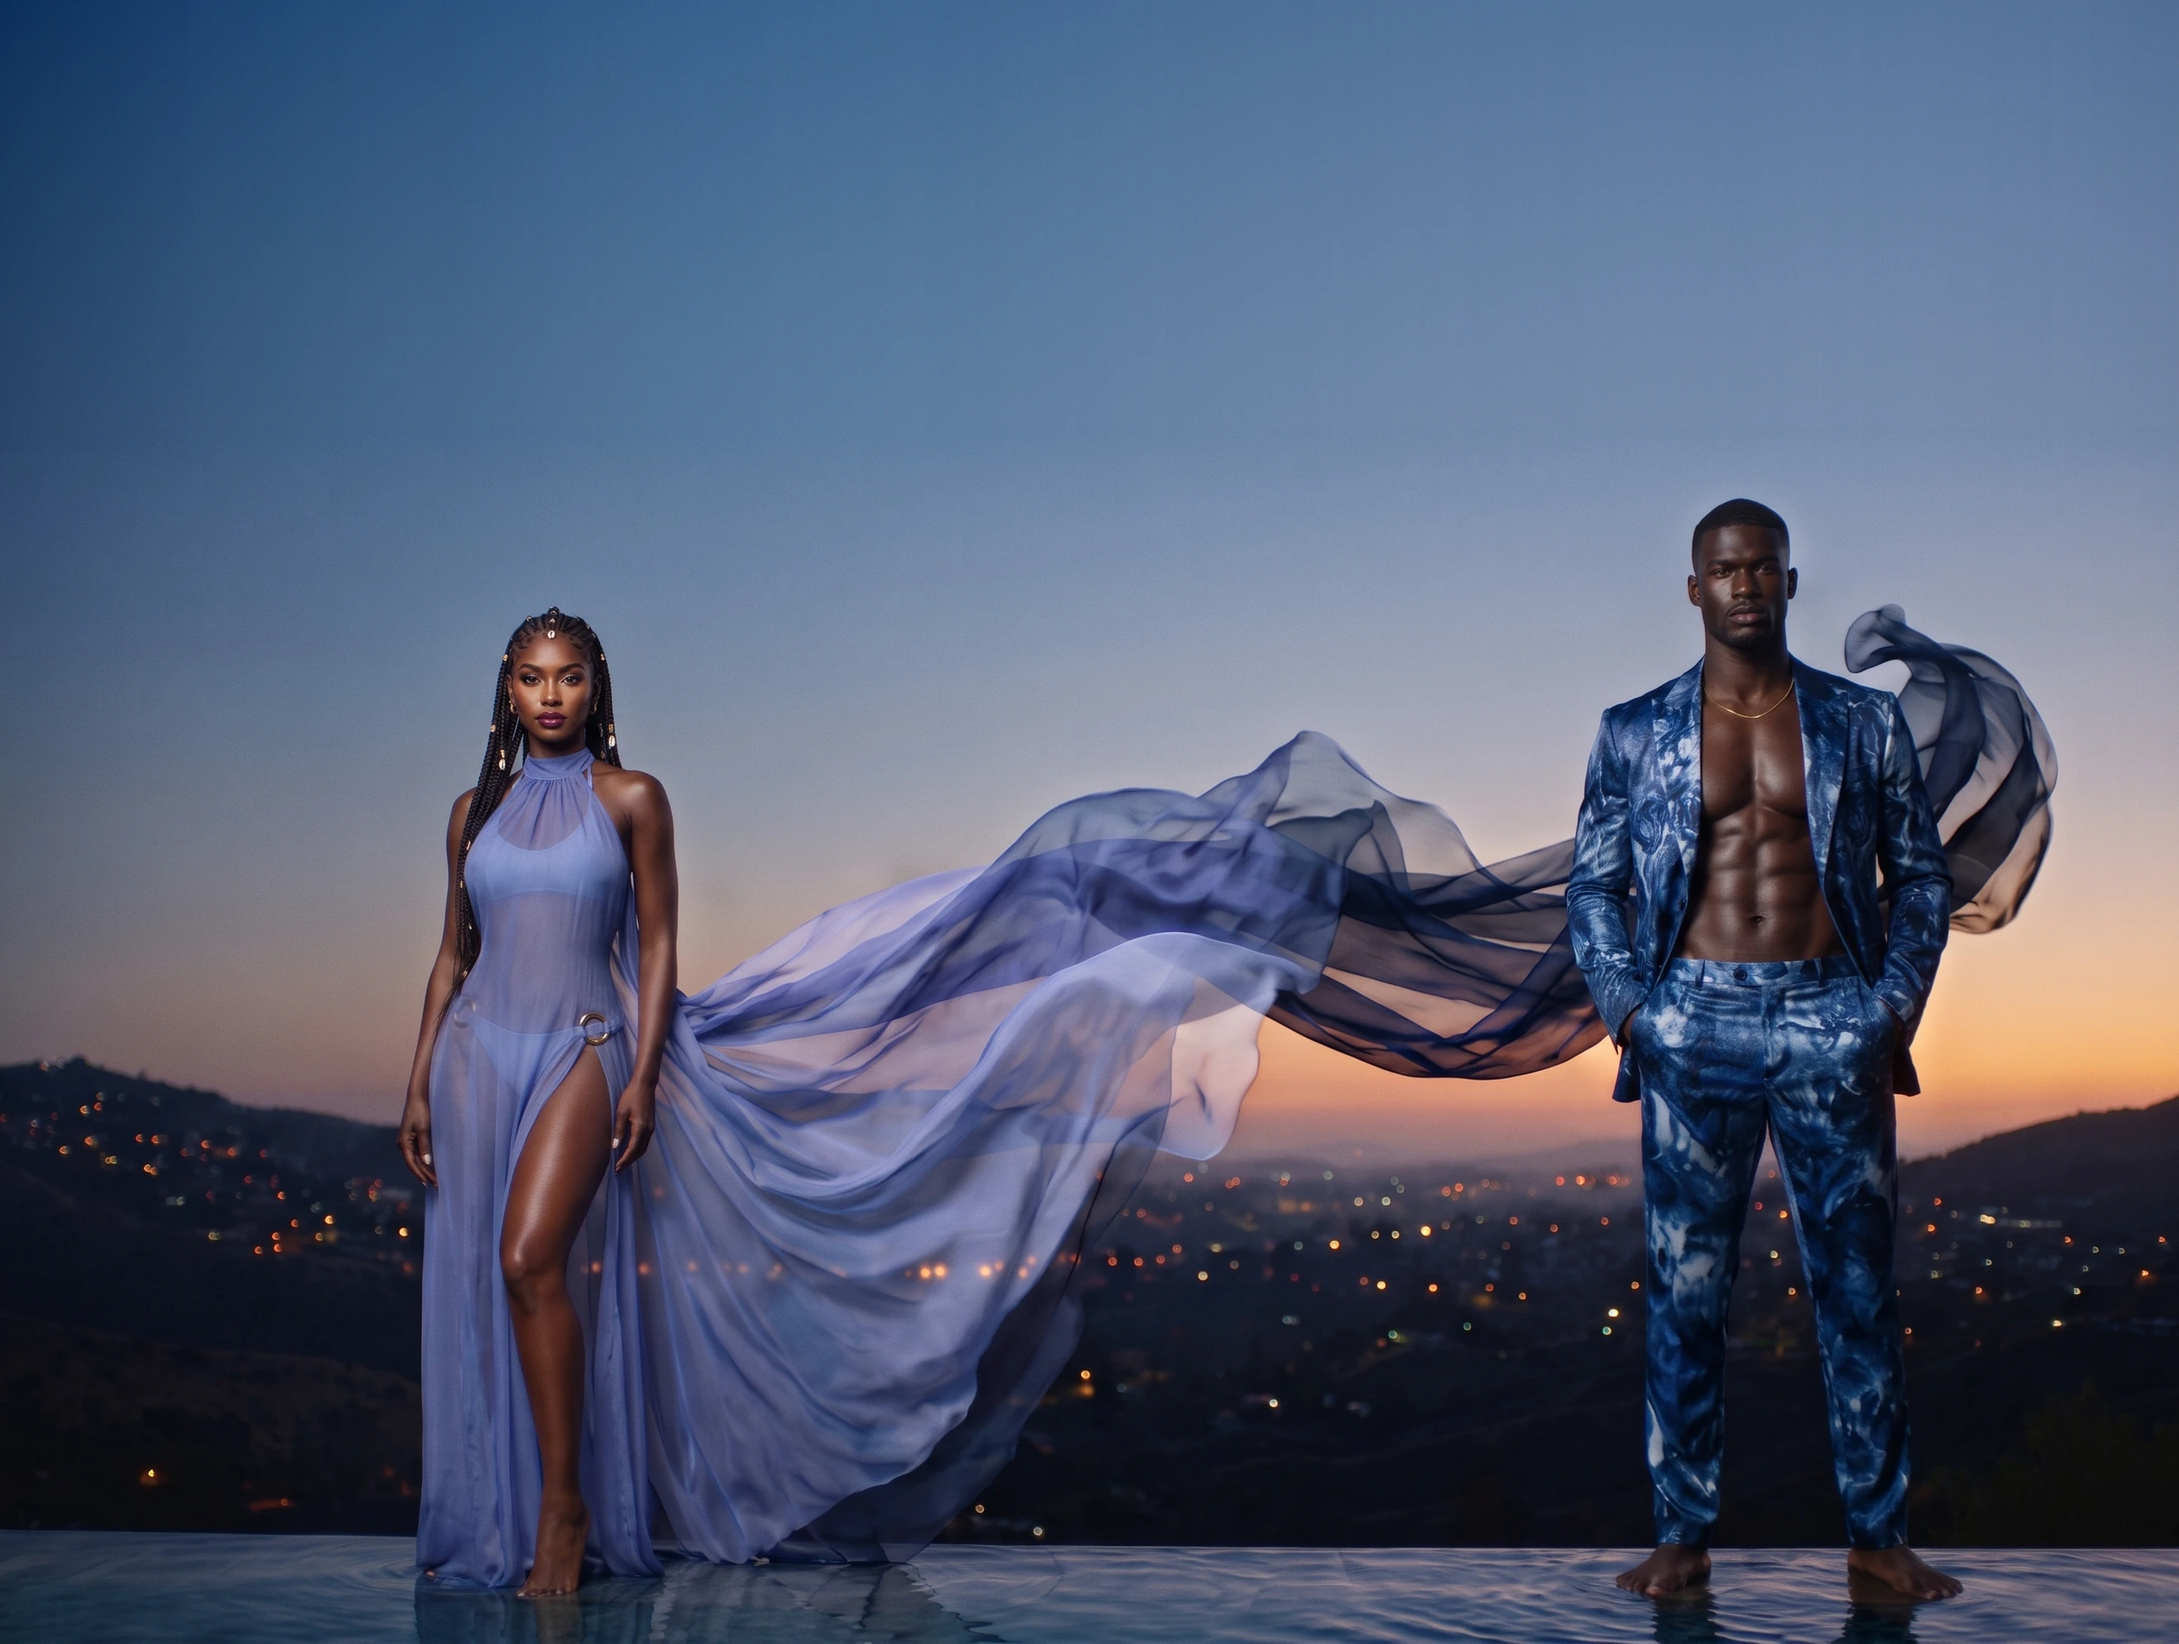
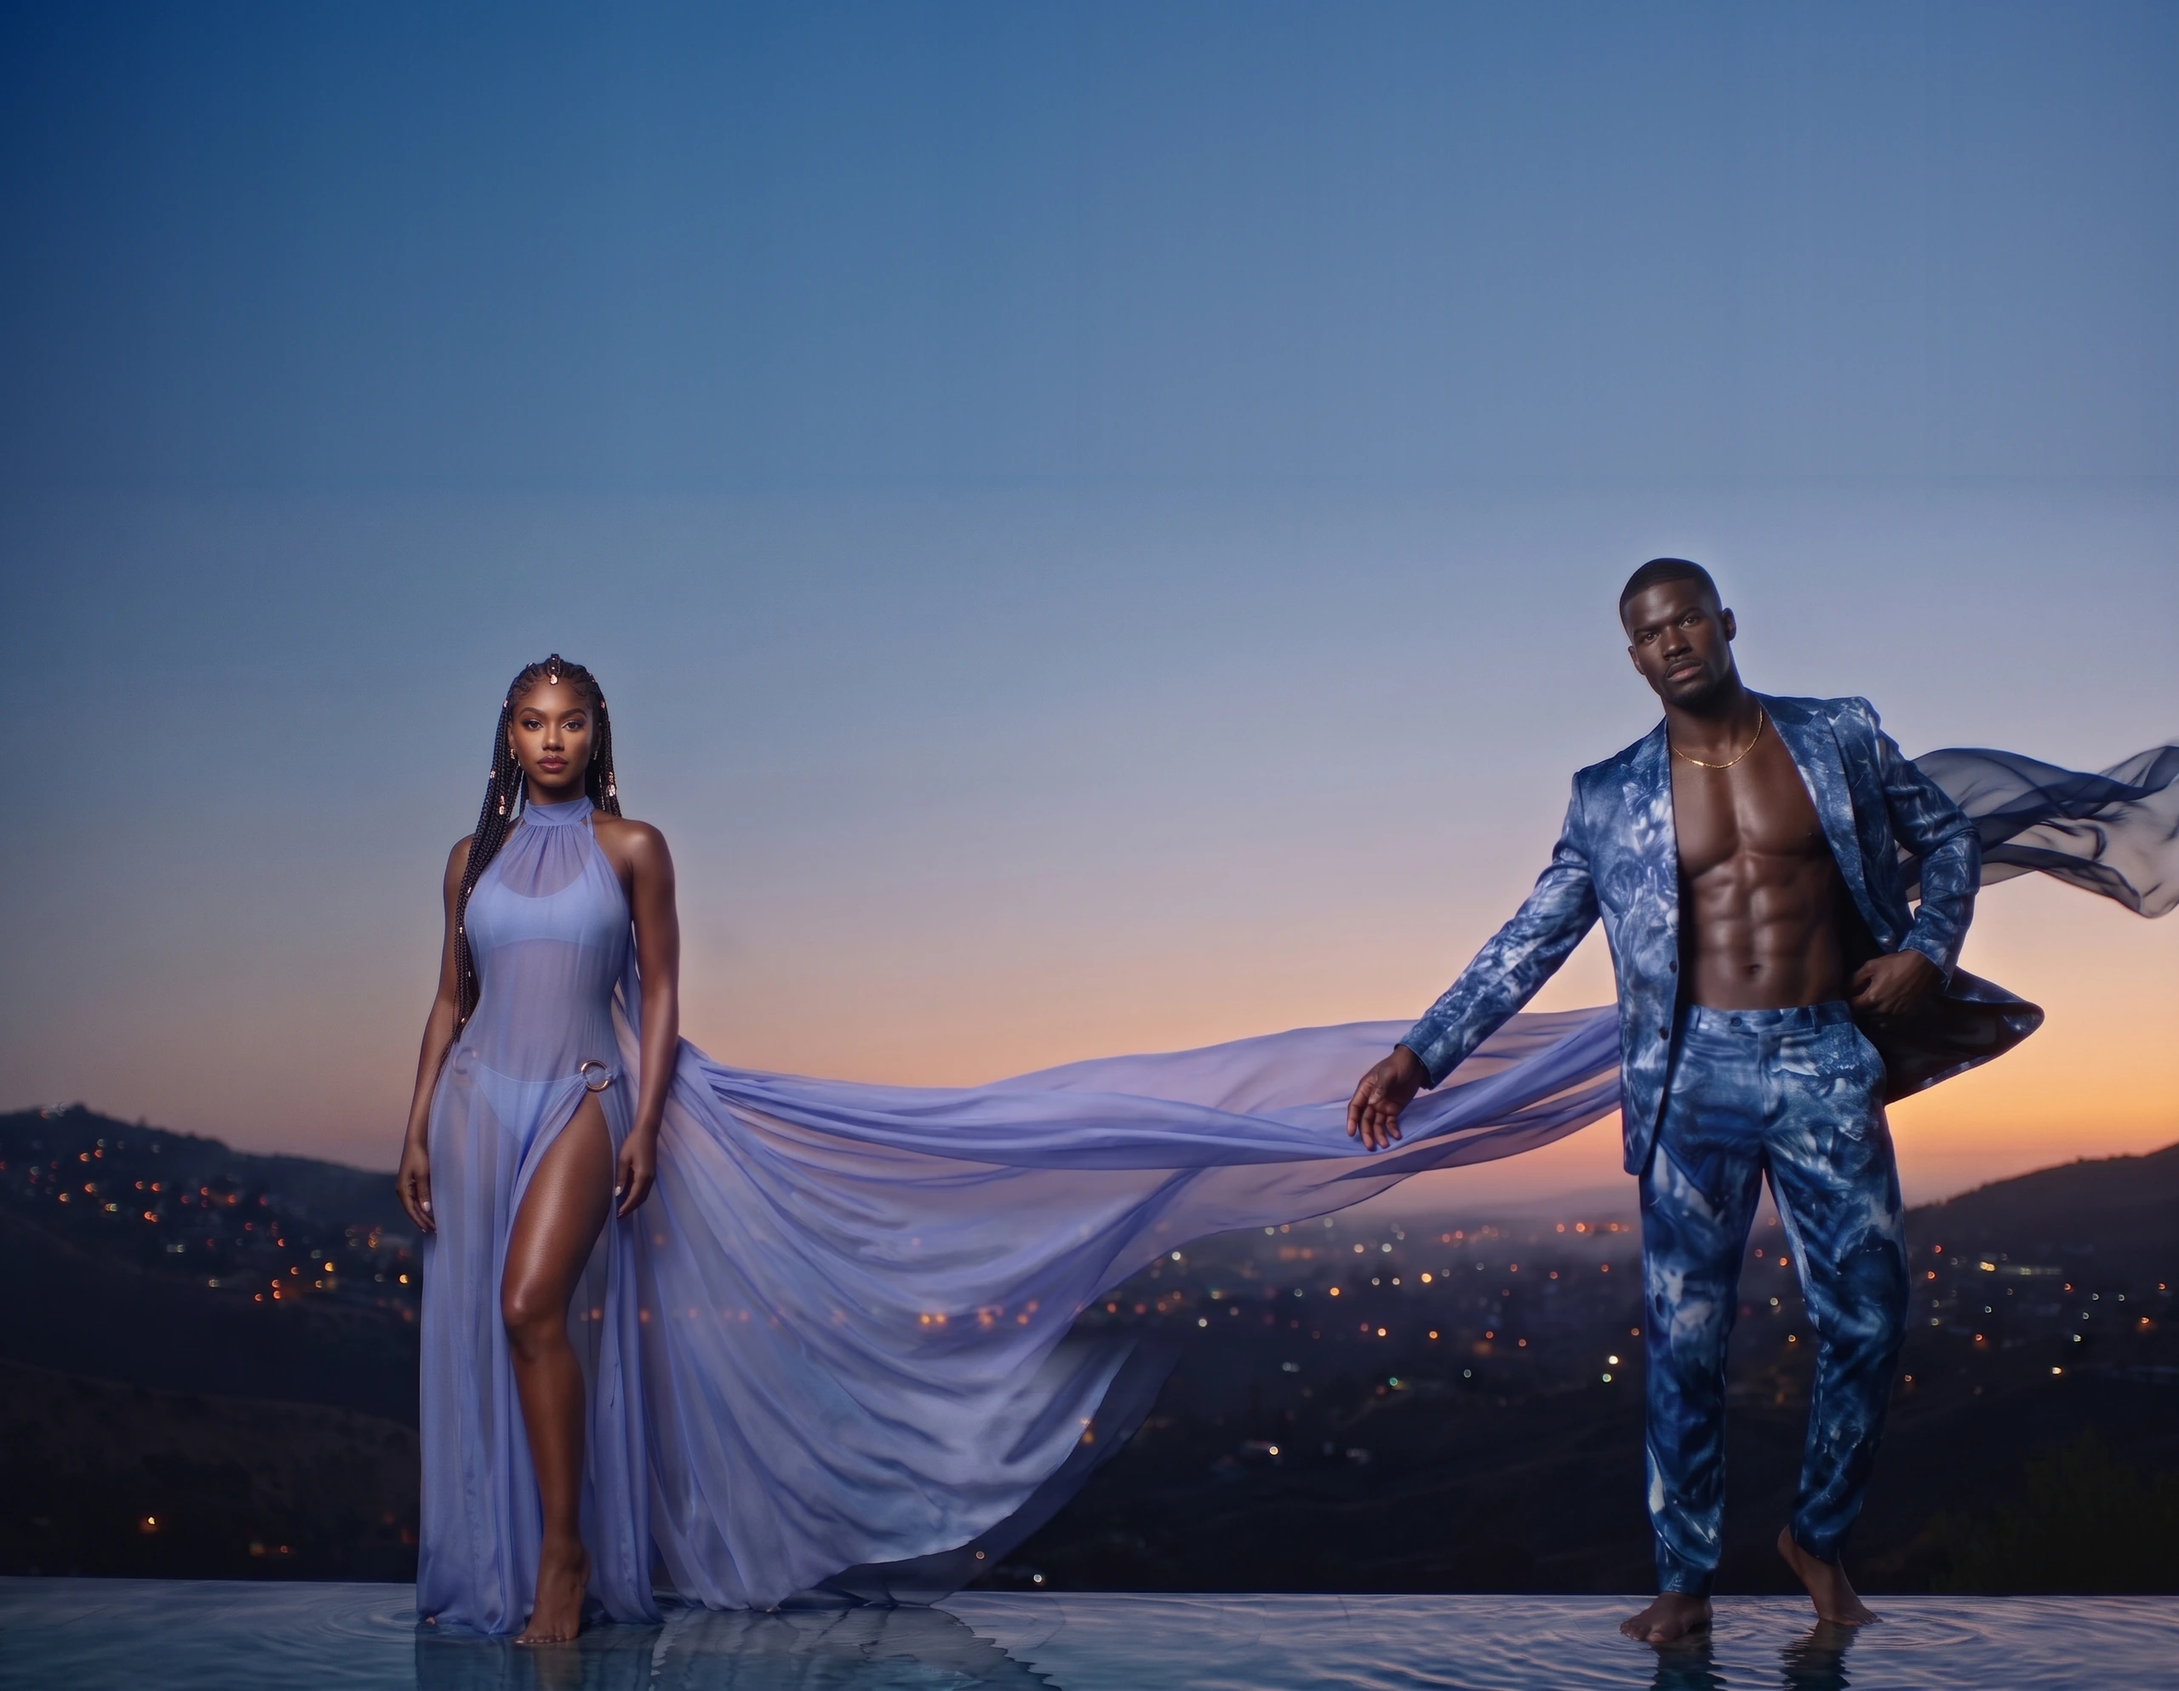
Sabo Silk desktop: new editorial pose, his fingertips stroking her silk, jacket lifting in the wind

diff --git a/index.html b/index.html
@@ -473,7 +473,7 @@ var BL = [
    // right, her sheer silk streaming across the centre to him. Phone: both on the right, the silk lifting up and to the left.
    // Sources: Downloads sabo-silk-scene-desktop.jpg and sabo-silk-scene-phone.jpg (Gemini, free). The tall picture has 225px of
    // sky added on top; head: the man's head top. headW: the man's head top in the wide picture.
-   layers:{wide:{w:2560,h:1931,headW:0.332,sky:"img/sabo-silk-sky.webp?v=sharp1",fg:"img/empty-fg.webp"},
+   layers:{wide:{w:2560,h:1987,headW:0.33,sky:"img/sabo-silk-sky.webp?v=pose1",fg:"img/empty-fg.webp"},
            tall:{w:1536,h:3072,head:0.419,keepR:0.99,sky:"img/sabo-silk-sky-tall.webp?v=sharp1",fg:"img/empty-fg.webp"}}},
 ];
 var TIERS=["top","heart","base"], TL={top:"Top",heart:"Heart",base:"Base"};
